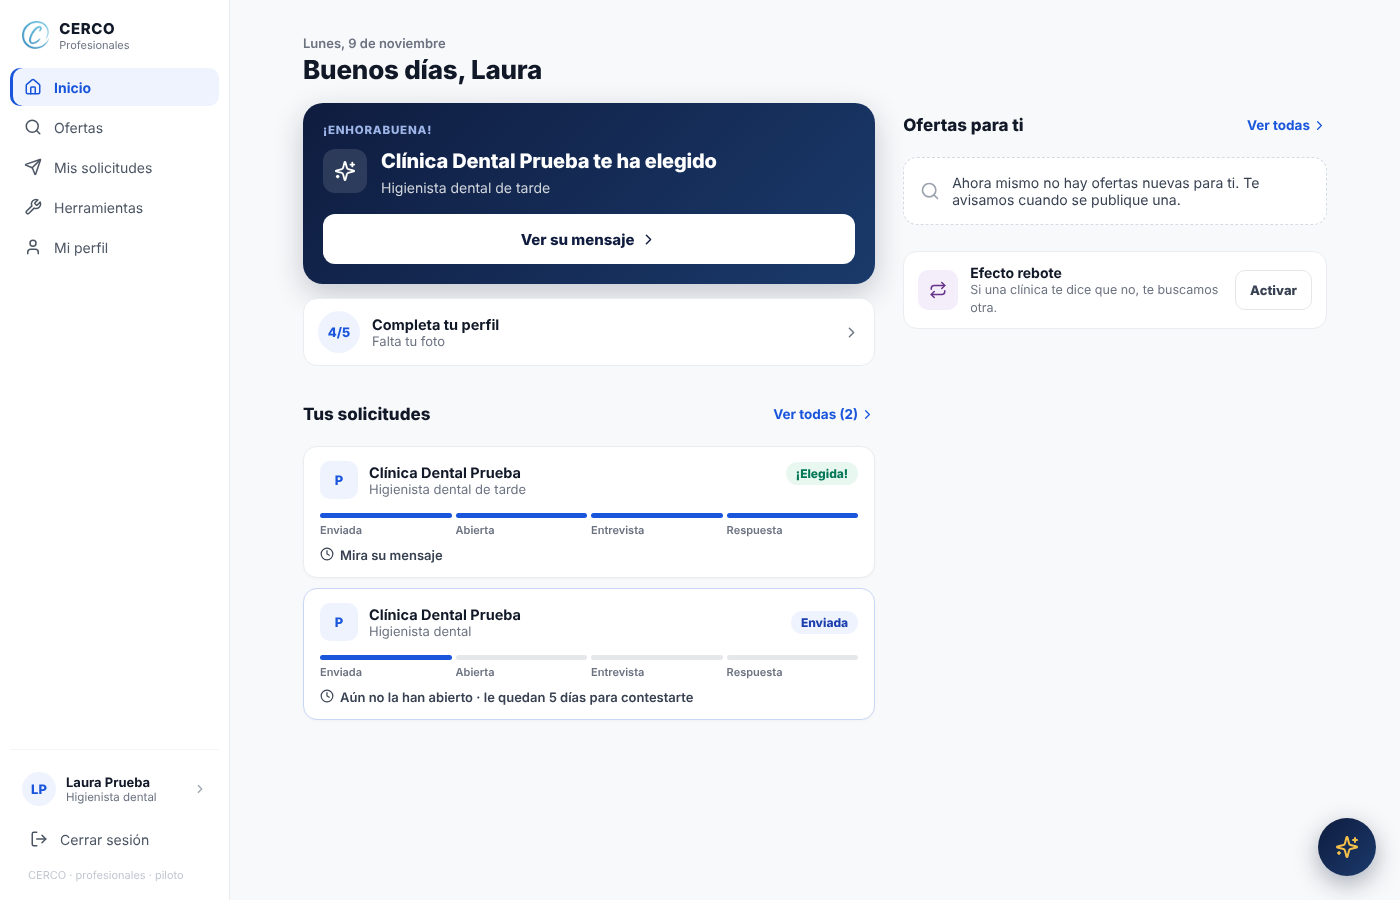
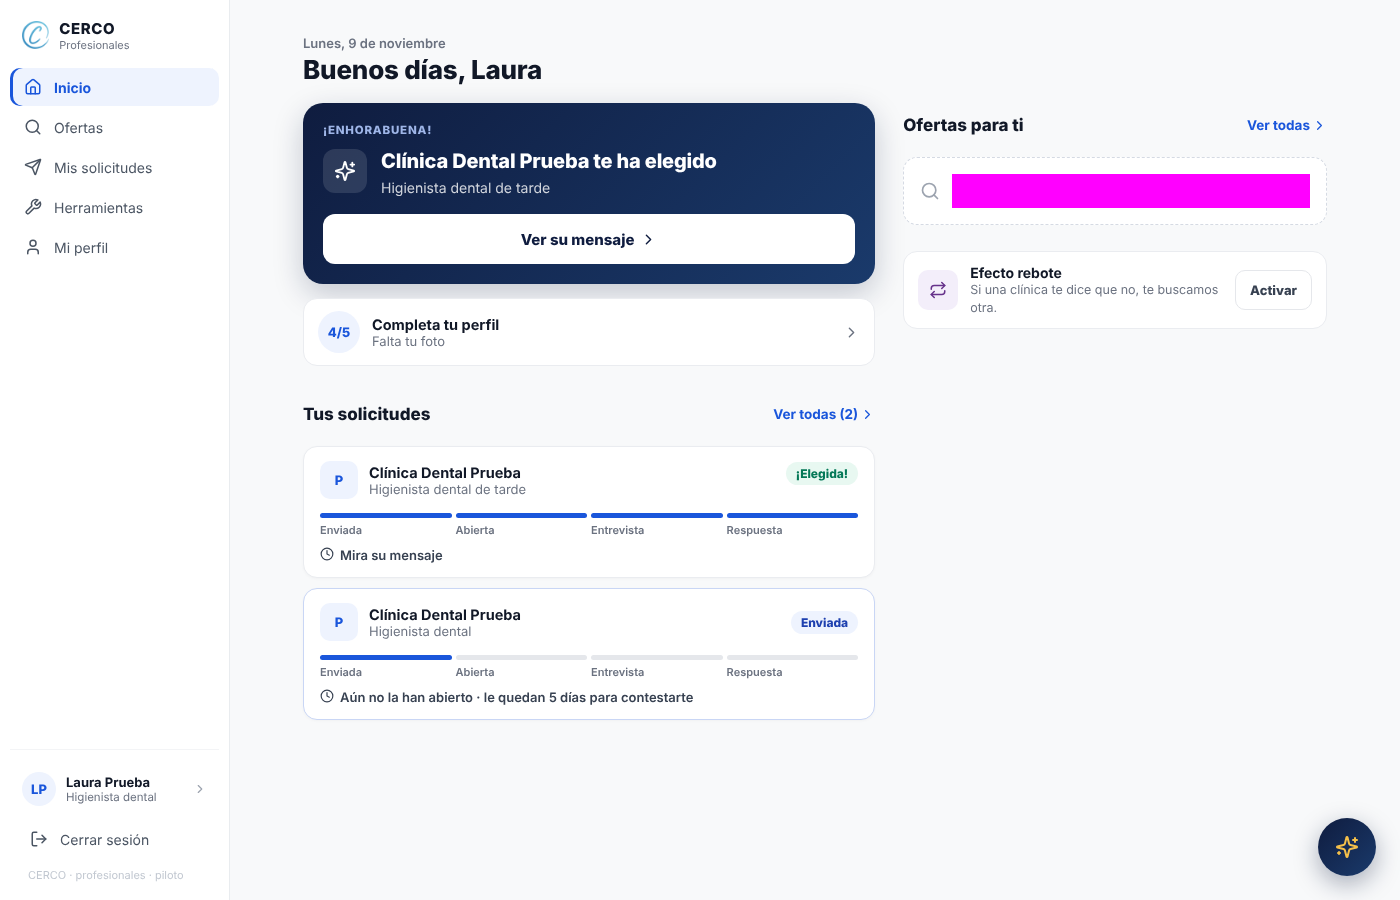
Pruebas: las capturas tapan «Ahora mismo» / «Hace N min»
Dependían de cuánto tardaba la prueba y daban falsas alarmas (por ejemplo,
«Ahora mismo» frente a «Hace 2 min»). Todas las pruebas en verde.

Claude-Session: https://claude.ai/code/session_01L5qSpH5ECCjMh1xfSpjWDJ

Changed region(s): [[0.6757, 0.1867, 0.9521, 0.2489]]

diff --git a/pruebas/apoyo/entorno.js b/pruebas/apoyo/entorno.js
@@ -156,6 +156,8 @@ async function capturar(page, nombre, opciones = {}) {
       page.locator('video'),
       page.locator('#t-ops, [id^="options-container-"]'),
       page.locator('#invite-link-input, #invite-link-stats, #invite-link-equipo, #cita-sala'),
+      // textos que dependen de cuánto tarda la prueba («Ahora mismo», «Hace 2 min»…)
+      page.getByText(/Ahora mismo|Hace \d+ (min|h)\b/),
       ...(opciones.tapar || []),
     ],
     stylePath: CSS_CAPTURA,
